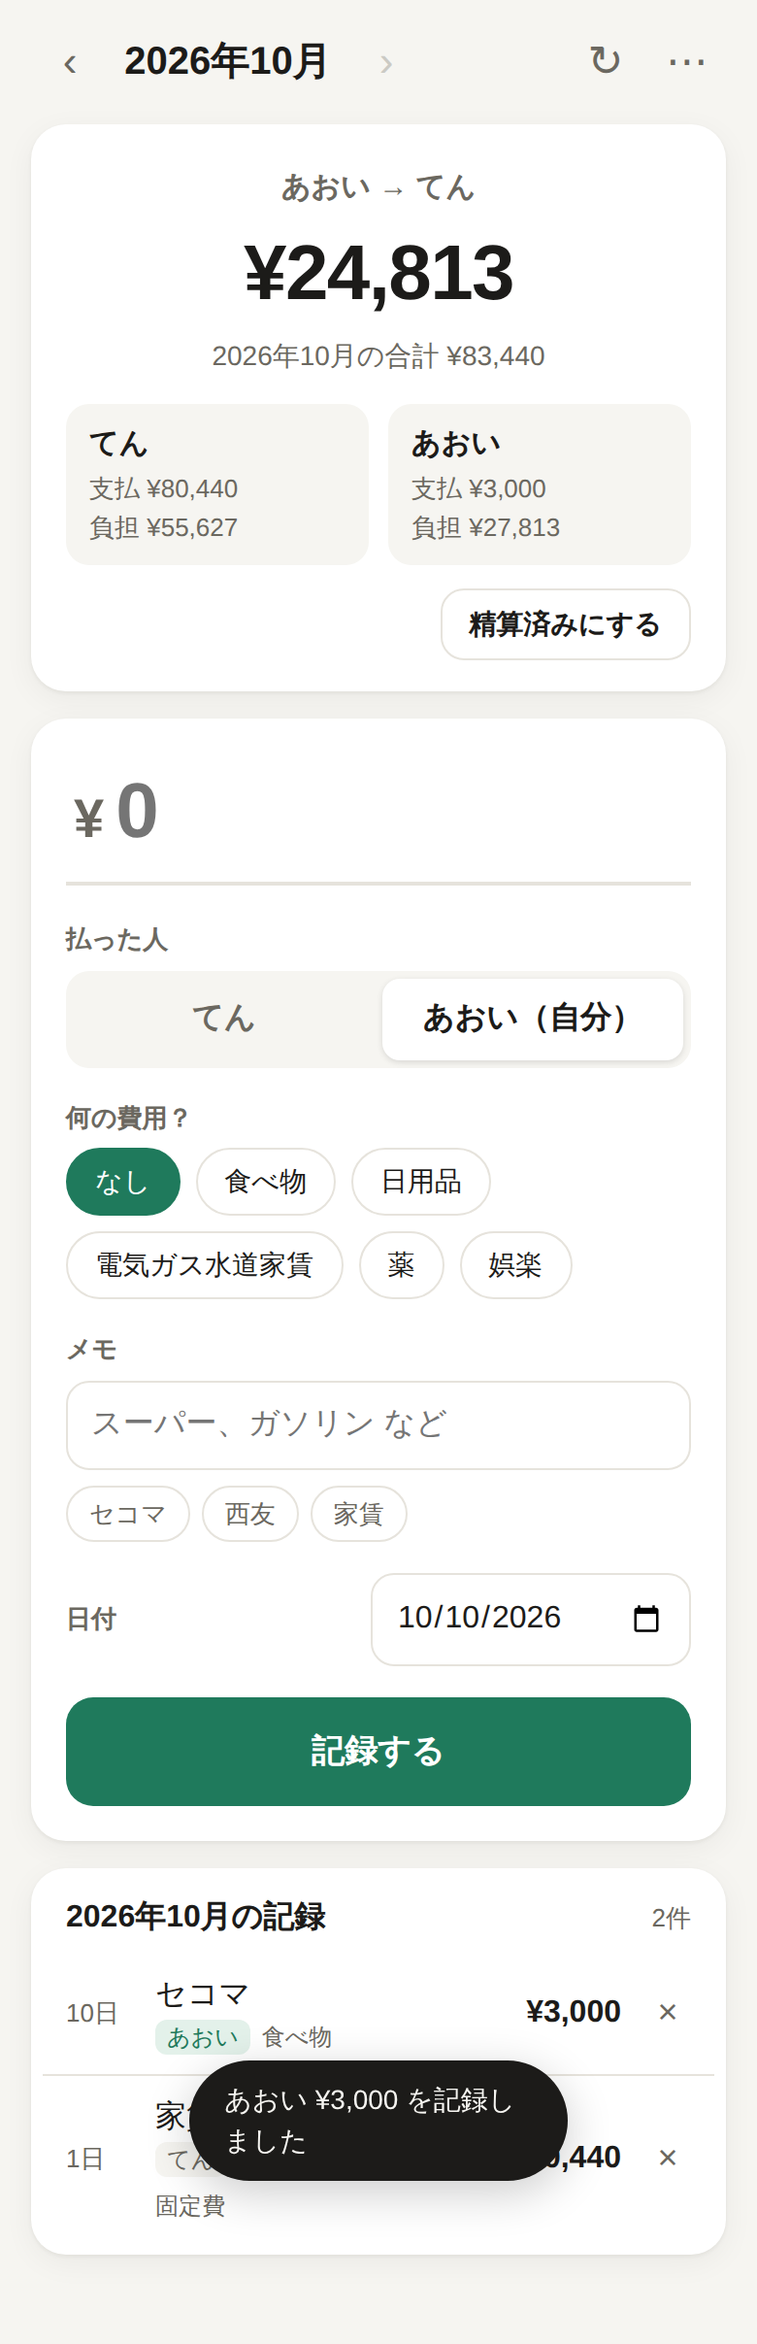
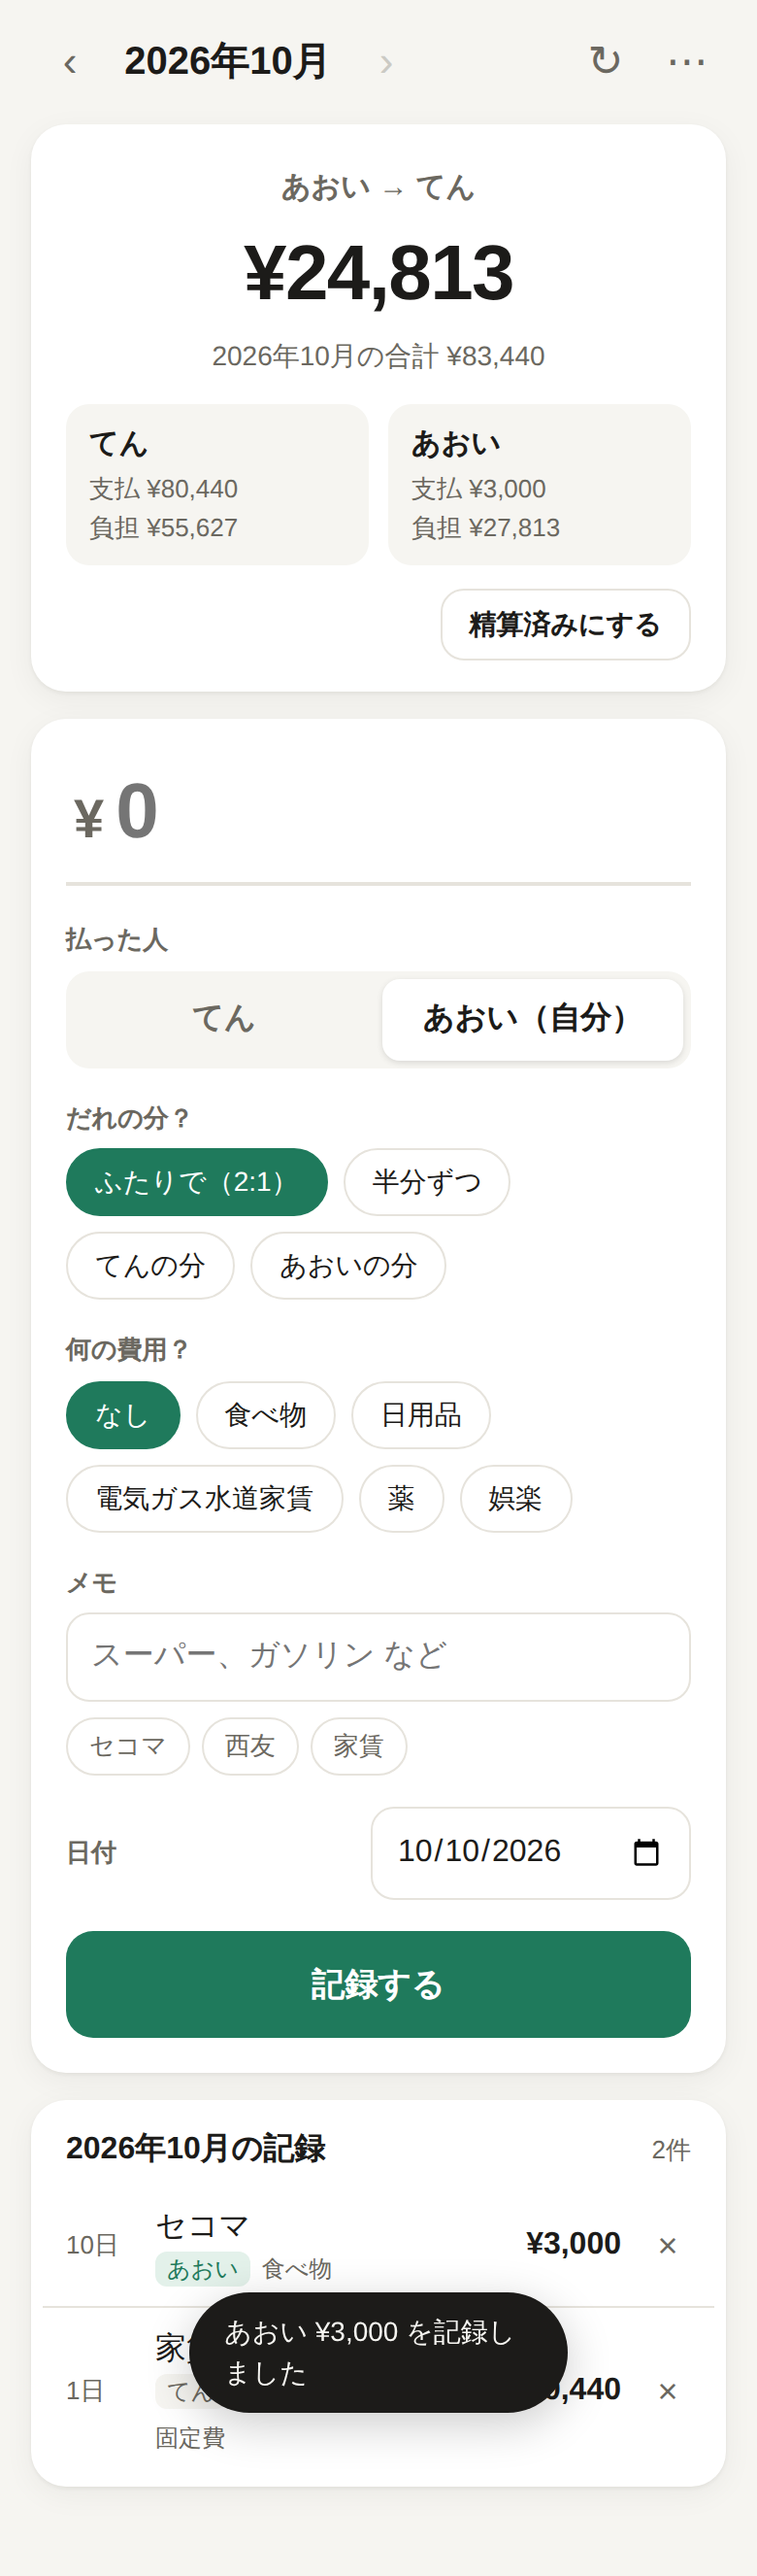
Add burden split, backup/import, and CI/CD deploy for warikan
- Each expense can be split by the ratio (2:1), half-and-half, or borne
  fully by one member, matching how the spreadsheet handled trips and
  items bought for each other
- Backup export (JSON) and idempotent import, used to bring over the
  spreadsheet history; recurring rent is not duplicated on import
- GitHub Actions workflow: run the end-to-end tests, then deploy to
  Cloudflare Pages on main; scripts/deploy.mjs creates the D1 database
  and Pages project when missing and writes the D1 binding config

Claude-Session: https://claude.ai/code/session_014pwS2RgDuqg2Pn9w9qUa1S

diff --git a/warikan/src/server.js b/warikan/src/server.js
@@ -1,6 +1,9 @@
 // わりかん API（Cloudflare Pages Functions で動く）。データは Cloudflare D1 に保存する。
 import { MEMBERS, CATEGORIES, RECURRING, SESSION_DAYS } from './config.js';
 
+// 「だれの分？」: '' = 割合（2:1）で割る、'half' = 半分ずつ、メンバー名 = その人が全額負担
+export const BURDEN_HALF = 'half';
+
 const COOKIE = 'warikan_session';
 const PBKDF2_ITERATIONS = 20000; // 無料プランの CPU 時間（1 リクエスト 10ms）に収まる範囲
 const MAX_FAILURES = 10; // 15 分間にこれだけ失敗したら、その名前でのログインを止める
@@ -56,6 +59,8 @@ async function route(request, env) {
   if (method === 'DELETE' && (m = path.match(/^\/settlements\/(\d{4}-\d{2})$/))) return unsettle(env.DB, m[1]);
   if (method === 'POST' && path === '/password') return changePassword(request, env.DB, user);
   if (method === 'GET' && path === '/export.csv') return exportCsv(env.DB);
+  if (method === 'GET' && path === '/backup.json') return exportBackup(env.DB);
+  if (method === 'POST' && path === '/import') return importBackup(request, env.DB, user);
 
   return json({ error: 'not found' }, 404);
 }
@@ -102,6 +107,7 @@ function ensureSchema(db) {
         payer TEXT NOT NULL,
         category TEXT NOT NULL DEFAULT '',
         comment TEXT NOT NULL DEFAULT '',
+        burden TEXT NOT NULL DEFAULT '',
         created_by TEXT NOT NULL,
         created_at TEXT NOT NULL,
         updated_at TEXT,
@@ -284,13 +290,15 @@ function validateExpense(input) {
   const payer = input.payer;
   const category = input.category || '';
   const comment = String(input.comment || '').trim();
+  const burden = input.burden || '';
   if (!isValidDate(date)) throw new HttpError(400, '日付が正しくありません');
   if (!Number.isInteger(amount) || amount === 0) throw new HttpError(400, '金額は 0 以外の整数で入力してください');
   if (Math.abs(amount) > 10000000) throw new HttpError(400, '金額が大きすぎます');
   if (!MEMBER_NAMES.includes(payer)) throw new HttpError(400, '払った人を選んでください');
   if (category && !CATEGORIES.includes(category)) throw new HttpError(400, '「何の費用？」が正しくありません');
   if (comment.length > 200) throw new HttpError(400, 'メモが長すぎます');
-  return { date, amount, payer, category, comment };
+  if (burden && burden !== BURDEN_HALF && !MEMBER_NAMES.includes(burden)) throw new HttpError(400, '「だれの分？」が正しくありません');
+  return { date, amount, payer, category, comment, burden };
 }
 
 async function createExpense(request, db, user) {
@@ -298,16 +306,20 @@ async function createExpense(request, db, user) {
   const e = validateExpense(input);
   const clientId = typeof input.clientId === 'string' && input.clientId ? input.clientId.slice(0, 64) : null;
   // 電波が悪くて再送されても、同じ clientId なら二重に記録しない
-  await db.prepare(`INSERT INTO expenses (date, amount, payer, category, comment, created_by, created_at, client_id)
-      VALUES (?, ?, ?, ?, ?, ?, ?, ?) ON CONFLICT (client_id) DO NOTHING`)
-    .bind(e.date, e.amount, e.payer, e.category, e.comment, user, nowIso(), clientId).run();
+  await insertExpense(db, e, user, clientId).run();
   return json(await monthData(db, e.date.slice(0, 7)));
+}
+
+function insertExpense(db, e, createdBy, clientId) {
+  return db.prepare(`INSERT INTO expenses (date, amount, payer, category, comment, burden, created_by, created_at, client_id)
+      VALUES (?, ?, ?, ?, ?, ?, ?, ?, ?) ON CONFLICT (client_id) DO NOTHING`)
+    .bind(e.date, e.amount, e.payer, e.category, e.comment, e.burden, createdBy, nowIso(), clientId || crypto.randomUUID());
 }
 
 async function updateExpense(request, db, user, id) {
   const e = validateExpense(await body(request));
-  const res = await db.prepare(`UPDATE expenses SET date = ?, amount = ?, payer = ?, category = ?, comment = ?, updated_at = ?
-      WHERE id = ?`).bind(e.date, e.amount, e.payer, e.category, e.comment, nowIso(), id).run();
+  const res = await db.prepare(`UPDATE expenses SET date = ?, amount = ?, payer = ?, category = ?, comment = ?, burden = ?, updated_at = ?
+      WHERE id = ?`).bind(e.date, e.amount, e.payer, e.category, e.comment, e.burden, nowIso(), id).run();
   if (!res.meta.changes) throw new HttpError(404, 'この記録は削除されています');
   return json(await monthData(db, e.date.slice(0, 7)));
 }
@@ -322,10 +334,10 @@ async function deleteExpense(db, id) {
 async function applyRecurring(db, month) {
   for (let i = 0; i < RECURRING.length; i++) {
     const r = RECURRING[i];
-    const res = await db.prepare('INSERT OR IGNORE INTO applied (key) VALUES (?)').bind(`recurring:${month}:${i}`).run();
+    const key = `recurring:${month}:${i}`;
+    const res = await db.prepare('INSERT OR IGNORE INTO applied (key) VALUES (?)').bind(key).run();
     if (res.meta.changes) {
-      await db.prepare(`INSERT INTO expenses (date, amount, payer, category, comment, created_by, created_at)
-          VALUES (?, ?, ?, ?, ?, '自動', ?)`).bind(month + '-01', r.amount, r.payer, r.category, r.comment, nowIso()).run();
+      await insertExpense(db, { date: month + '-01', amount: r.amount, payer: r.payer, category: r.category, comment: r.comment, burden: r.burden || '' }, '自動', key).run();
     }
   }
 }
@@ -334,12 +346,18 @@ async function applyRecurring(db, month) {
 // 月のデータ・精算
 // ---------------------------------------------------------------------------
 
-function summarize(entries) {
+/** 1 件の記録のうち、その人が負担する額 */
+function shareOf(entry, member) {
+  if (!entry.burden) return (entry.amount * member.share) / MEMBERS.reduce((s, m) => s + m.share, 0);
+  if (entry.burden === BURDEN_HALF) return entry.amount / MEMBERS.length;
+  return entry.burden === member.name ? entry.amount : 0;
+}
+
+export function summarize(entries) {
   const total = entries.reduce((s, e) => s + e.amount, 0);
-  const shares = MEMBERS.reduce((s, m) => s + m.share, 0);
   const people = MEMBERS.map((m) => {
     const paid = entries.filter((e) => e.payer === m.name).reduce((s, e) => s + e.amount, 0);
-    const share = (total * m.share) / shares;
+    const share = entries.reduce((s, e) => s + shareOf(e, m), 0);
     return { name: m.name, paid, share: Math.round(share), diff: Math.round(share - paid) };
   });
   const debtor = people.find((p) => p.diff > 0);
@@ -354,7 +372,7 @@ async function monthData(db, month) {
   if (month === current) await applyRecurring(db, month);
 
   const [entriesRes, monthsRes, settlement, suggestionsRes] = await db.batch([
-    db.prepare(`SELECT id, date, amount, payer, category, comment, created_by FROM expenses
+    db.prepare(`SELECT id, date, amount, payer, category, comment, burden, created_by FROM expenses
         WHERE date >= ? AND date < ? ORDER BY date DESC, id DESC`).bind(month + '-01', nextMonth(month) + '-01'),
     db.prepare('SELECT DISTINCT substr(date, 1, 7) AS month FROM expenses ORDER BY month DESC'),
     db.prepare('SELECT amount, from_name, to_name, settled_by, settled_at FROM settlements WHERE month = ?').bind(month),
@@ -376,6 +394,7 @@ async function monthData(db, month) {
     today: todayJst(),
     months: Array.from(months).sort().reverse(),
     members: MEMBERS.map((m) => m.name),
+    ratio: MEMBERS.map((m) => m.share).join(':'),
     categories: CATEGORIES,
     entries,
     summary: summarize(entries),
@@ -400,13 +419,14 @@ async function unsettle(db, month) {
 }
 
 async function exportCsv(db) {
-  const { results } = await db.prepare('SELECT date, amount, payer, category, comment, created_by, created_at FROM expenses ORDER BY date, id').all();
+  const { results } = await db.prepare('SELECT date, amount, payer, category, comment, burden, created_by, created_at FROM expenses ORDER BY date, id').all();
+  const burdenLabel = (b) => (!b ? MEMBERS.map((m) => m.share).join(':') : b === BURDEN_HALF ? '半分ずつ' : b + 'の分');
   const cell = (v) => {
     const s = String(v ?? '');
     return /[",\n]/.test(s) ? '"' + s.replace(/"/g, '""') + '"' : s;
   };
-  const lines = [['日付', '金額', '払った人', '何の費用', 'メモ', '記録した人', '記録日時']]
-    .concat(results.map((r) => [r.date, r.amount, r.payer, r.category, r.comment, r.created_by, r.created_at]))
+  const lines = [['日付', '金額', '払った人', '何の費用', 'メモ', 'だれの分', '記録した人', '記録日時']]
+    .concat(results.map((r) => [r.date, r.amount, r.payer, r.category, r.comment, burdenLabel(r.burden), r.created_by, r.created_at]))
     .map((row) => row.map(cell).join(','));
   return new Response('' + lines.join('\r\n') + '\r\n', {
     headers: {
@@ -415,4 +435,78 @@ async function exportCsv(db) {
       'Cache-Control': 'no-store',
     },
   });
+}
+
+// ---------------------------------------------------------------------------
+// バックアップと取り込み
+// ---------------------------------------------------------------------------
+
+/** すべての記録と精算済みの印を JSON で書き出す（このまま /api/import で取り込める） */
+async function exportBackup(db) {
+  // key のない古い記録にも key を付けておく（取り込み直したときに二重にならないように）
+  await db.prepare("UPDATE expenses SET client_id = 'db:' || id WHERE client_id IS NULL").run();
+  const [expenses, settlements] = await db.batch([
+    db.prepare('SELECT id, client_id, date, amount, payer, category, comment, burden, created_by FROM expenses ORDER BY date, id'),
+    db.prepare('SELECT month, amount, from_name, to_name, settled_by, settled_at FROM settlements ORDER BY month'),
+  ]);
+  const backup = {
+    app: 'warikan',
+    version: 1,
+    exportedAt: nowIso(),
+    expenses: expenses.results.map((r) => ({
+      key: r.client_id,
+      date: r.date, amount: r.amount, payer: r.payer, category: r.category, comment: r.comment, burden: r.burden, createdBy: r.created_by,
+    })),
+    settlements: settlements.results.map((r) => ({ month: r.month, amount: r.amount, from: r.from_name, to: r.to_name, by: r.settled_by, at: r.settled_at })),
+  };
+  return new Response(JSON.stringify(backup, null, 1), {
+    headers: {
+      'Content-Type': 'application/json; charset=utf-8',
+      'Content-Disposition': `attachment; filename="warikan-backup-${todayJst()}.json"`,
+      'Cache-Control': 'no-store',
+    },
+  });
+}
+
+/**
+ * バックアップ（または過去の記録を整理したファイル）を取り込む。
+ * 同じ key の記録はすでにあれば飛ばすので、何度取り込んでも二重にならない。
+ */
+async function importBackup(request, db, user) {
+  const data = await body(request);
+  if (!data || data.app !== 'warikan' || !Array.isArray(data.expenses)) throw new HttpError(400, 'わりかんのバックアップファイルではありません');
+  if (data.expenses.length > 20000) throw new HttpError(400, '記録が多すぎます');
+
+  const statements = [];
+  data.expenses.forEach((input, i) => {
+    let e;
+    try {
+      e = validateExpense(input);
+    } catch (err) {
+      throw new HttpError(400, `${i + 1} 件目（${input && input.date} ${input && input.comment || ''}）: ${err.message}`);
+    }
+    const key = String(input.key || '').slice(0, 64);
+    if (!key) throw new HttpError(400, `${i + 1} 件目に key がありません`);
+    const createdBy = MEMBER_NAMES.includes(input.createdBy) || input.createdBy === '自動' || input.createdBy === '取り込み' ? input.createdBy : user;
+    if (/^recurring:\d{4}-\d{2}:\d+$/.test(key)) {
+      // 固定費: その月にもう自動で入っていれば取り込まない。取り込んだら、あとで自動で入れない
+      statements.push(db.prepare(`INSERT INTO expenses (date, amount, payer, category, comment, burden, created_by, created_at, client_id)
+          SELECT ?, ?, ?, ?, ?, ?, ?, ?, ? WHERE NOT EXISTS (SELECT 1 FROM applied WHERE key = ?)
+          ON CONFLICT (client_id) DO NOTHING`)
+        .bind(e.date, e.amount, e.payer, e.category, e.comment, e.burden, createdBy, nowIso(), key, key));
+      statements.push(db.prepare('INSERT OR IGNORE INTO applied (key) VALUES (?)').bind(key));
+    } else {
+      statements.push(insertExpense(db, e, createdBy, key));
+    }
+  });
+  (Array.isArray(data.settlements) ? data.settlements : []).forEach((s) => {
+    if (!/^\d{4}-\d{2}$/.test(s.month) || !Number.isInteger(s.amount)) throw new HttpError(400, '精算済みの記録が正しくありません: ' + s.month);
+    statements.push(db.prepare(`INSERT OR IGNORE INTO settlements (month, amount, from_name, to_name, settled_by, settled_at)
+        VALUES (?, ?, ?, ?, ?, ?)`).bind(s.month, s.amount, String(s.from || ''), String(s.to || ''), String(s.by || user), String(s.at || nowIso())));
+  });
+
+  const before = await db.prepare('SELECT COUNT(*) AS n FROM expenses').first();
+  for (let i = 0; i < statements.length; i += 50) await db.batch(statements.slice(i, i + 50));
+  const after = await db.prepare('SELECT COUNT(*) AS n FROM expenses').first();
+  return json({ added: after.n - before.n, skipped: data.expenses.length - (after.n - before.n) });
 }

diff --git a/warikan/public/app.js b/warikan/public/app.js
@@ -18,6 +18,7 @@
     queue: [],
     payer: null,
     category: '',
+    burden: '',
     editing: null, // 編集中の記録
     loginName: null,
     loading: false,
@@ -283,6 +284,14 @@
       onclick: () => { state.payer = name; renderForm(); },
     })));
 
+    const members2 = (state.data && state.data.members) || [];
+    const burdens = [['', 'ふたりで' + (state.data && state.data.ratio ? '（' + state.data.ratio + '）' : '')], ['half', '半分ずつ']]
+      .concat(members2.map((n) => [n, n + 'の分']));
+    $('burden').replaceChildren(...burdens.map(([value, label]) => el('button', {
+      type: 'button', role: 'radio', text: label, 'aria-checked': String(value === state.burden),
+      onclick: () => { state.burden = value; renderForm(); },
+    })));
+
     const categories = ['', ...((state.data && state.data.categories) || [])];
     $('categories').replaceChildren(...categories.map((c) => el('button', {
       type: 'button', role: 'radio', text: c || 'なし', 'aria-checked': String(c === state.category),
@@ -329,6 +338,7 @@
           el('span', { class: 'entry-meta' }, [
             el('span', { class: 'badge' + (e.payer === state.user ? ' me' : ''), text: e.payer }),
             e.category && e.comment ? el('span', { text: e.category }) : null,
+            e.burden ? el('span', { class: 'badge burden', text: e.burden === 'half' ? '半分ずつ' : e.burden + 'の分' }) : null,
             e.created_by === '自動' ? el('span', { text: '固定費' }) : null,
             e.pending ? el('span', { class: 'badge pending', text: '送信待ち' }) : null,
           ]),
@@ -355,6 +365,7 @@
     $('comment').value = '';
     $('date').value = todayIso();
     state.category = '';
+    state.burden = '';
     state.payer = state.user;
   }
 
@@ -364,6 +375,7 @@
     $('comment').value = e.comment;
     $('date').value = e.date;
     state.category = e.category;
+    state.burden = e.burden || '';
     state.payer = e.payer;
     render();
     $('entry-form').scrollIntoView({ behavior: 'smooth', block: 'start' });
@@ -382,6 +394,7 @@
       amount: state.editing && state.editing.amount < 0 ? -amount : amount,
       payer: state.payer || state.user,
       category: state.category,
+      burden: state.burden,
       comment: $('comment').value.trim(),
     };
     $('amount').blur();
@@ -470,6 +483,23 @@
     }
   }
 
+  async function onImportFile(ev) {
+    const file = ev.target.files[0];
+    ev.target.value = '';
+    if (!file) return;
+    $('import-message').textContent = '取り込み中…';
+    try {
+      const data = JSON.parse(await file.text());
+      const n = Array.isArray(data.expenses) ? data.expenses.length : 0;
+      if (!confirm(`「${file.name}」の記録 ${n} 件を取り込みますか？\n（すでにある記録は飛ばします）`)) { $('import-message').textContent = ''; return; }
+      const res = await api('POST', '/import', data);
+      $('import-message').textContent = `${res.added} 件を取り込みました` + (res.skipped ? `（${res.skipped} 件はすでにあったので飛ばしました）` : '');
+      refresh(null);
+    } catch (e) {
+      $('import-message').textContent = e instanceof SyntaxError ? 'ファイルが読み取れませんでした' : e.message;
+    }
+  }
+
   // ---- 起動 ----
   function bind() {
     $('login-form').addEventListener('submit', onLogin);
@@ -485,10 +515,12 @@
       $('settings-me').textContent = state.user || '';
       $('pw-username').value = state.user || '';
       $('pw-message').textContent = '';
+      $('import-message').textContent = '';
       $('settings').showModal();
     });
     $('close-settings').addEventListener('click', () => $('settings').close());
     $('password-form').addEventListener('submit', onChangePassword);
+    $('import-file').addEventListener('change', onImportFile);
     $('logout').addEventListener('click', async () => {
       if (!confirm('ログアウトしますか？')) return;
       try { await api('POST', '/logout'); } catch (e) { /* オフラインでも画面はログアウトする */ }

diff --git a/warikan/public/index.html b/warikan/public/index.html
@@ -82,6 +82,11 @@
       </div>
 
       <div class="field">
+        <span class="field-label">だれの分？</span>
+        <div id="burden" class="chips" role="radiogroup" aria-label="だれの分"></div>
+      </div>
+
+      <div class="field">
         <span class="field-label">何の費用？</span>
         <div id="categories" class="chips" role="radiogroup" aria-label="何の費用"></div>
       </div>
@@ -126,7 +131,13 @@
       <p id="pw-message" class="small-text muted" role="status"></p>
     </form>
     <hr>
-    <a class="ghost block" href="/api/export.csv" download>記録をCSVでダウンロード</a>
+    <a class="ghost block" href="/api/export.csv" download>記録をCSVでダウンロード（Excel用）</a>
+    <a class="ghost block" href="/api/backup.json" download>バックアップを保存</a>
+    <label class="ghost block file-btn">
+      バックアップ・整理済みファイルを取り込む
+      <input type="file" id="import-file" accept=".json,application/json" hidden>
+    </label>
+    <p id="import-message" class="small-text muted" role="status"></p>
     <button type="button" id="logout" class="danger">ログアウト</button>
     <button type="button" id="close-settings" class="primary">閉じる</button>
   </dialog>

diff --git a/warikan/public/style.css b/warikan/public/style.css
@@ -425,3 +425,6 @@ dialog h3 { font-size: 14px; margin: 0; color: var(--muted); }
 .stack .ghost { margin-left: 0; }
 dialog .primary { margin-top: 4px; }
 .stack p:empty { display: none; }
+
+.badge.burden { background: transparent; border: 1px solid var(--line); padding: 0 5px; }
+.file-btn { cursor: pointer; }

diff --git a/warikan/public/sw.js b/warikan/public/sw.js
@@ -1,6 +1,6 @@
 // オフラインでも開けるように、画面のファイルを端末に保存しておく。
 // 記録の読み書き（/api/）はキャッシュしない。
-const CACHE = 'warikan-v2';
+const CACHE = 'warikan-v3';
 const FILES = [
   './',
   'index.html',
